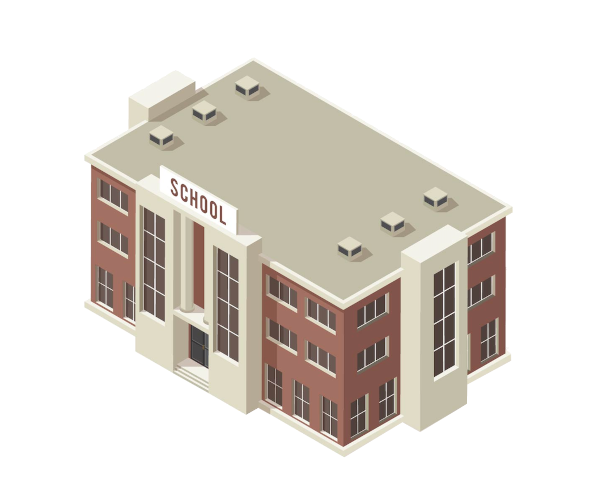
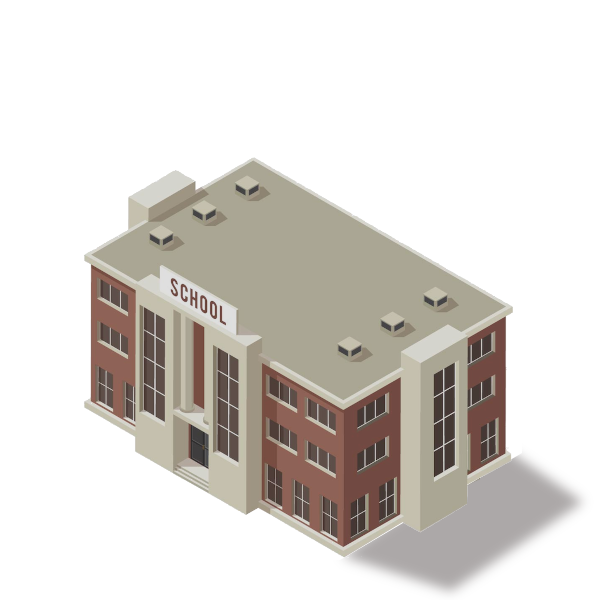
Added shadow to school image

diff --git a/Sources/game/map/TileType.swift b/Sources/game/map/TileType.swift
@@ -50,7 +50,7 @@ extension TileType {
         case .smallFootballPitch:
             return TileImage(path: "tiles/pitch.png", width: 600, height: 400)
         case .school:
-            return TileImage(path: "tiles/school.png", width: 600, height: 500)
+            return TileImage(path: "tiles/school.png", width: 600, height: 600)
         case .hospital:
             return TileImage(path: "tiles/hospital.png", width: 600, height: 600)
         case .soldLand:
